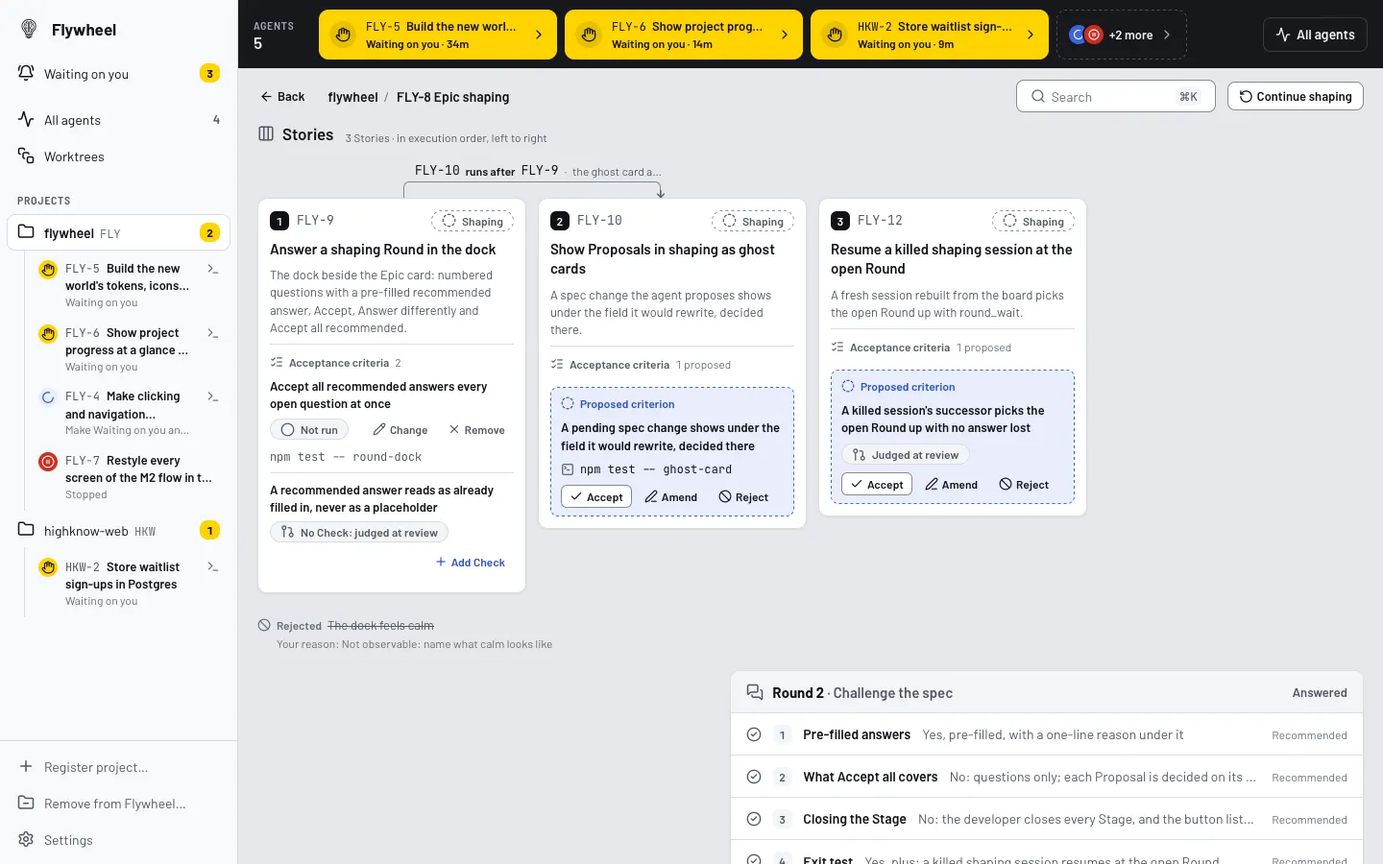
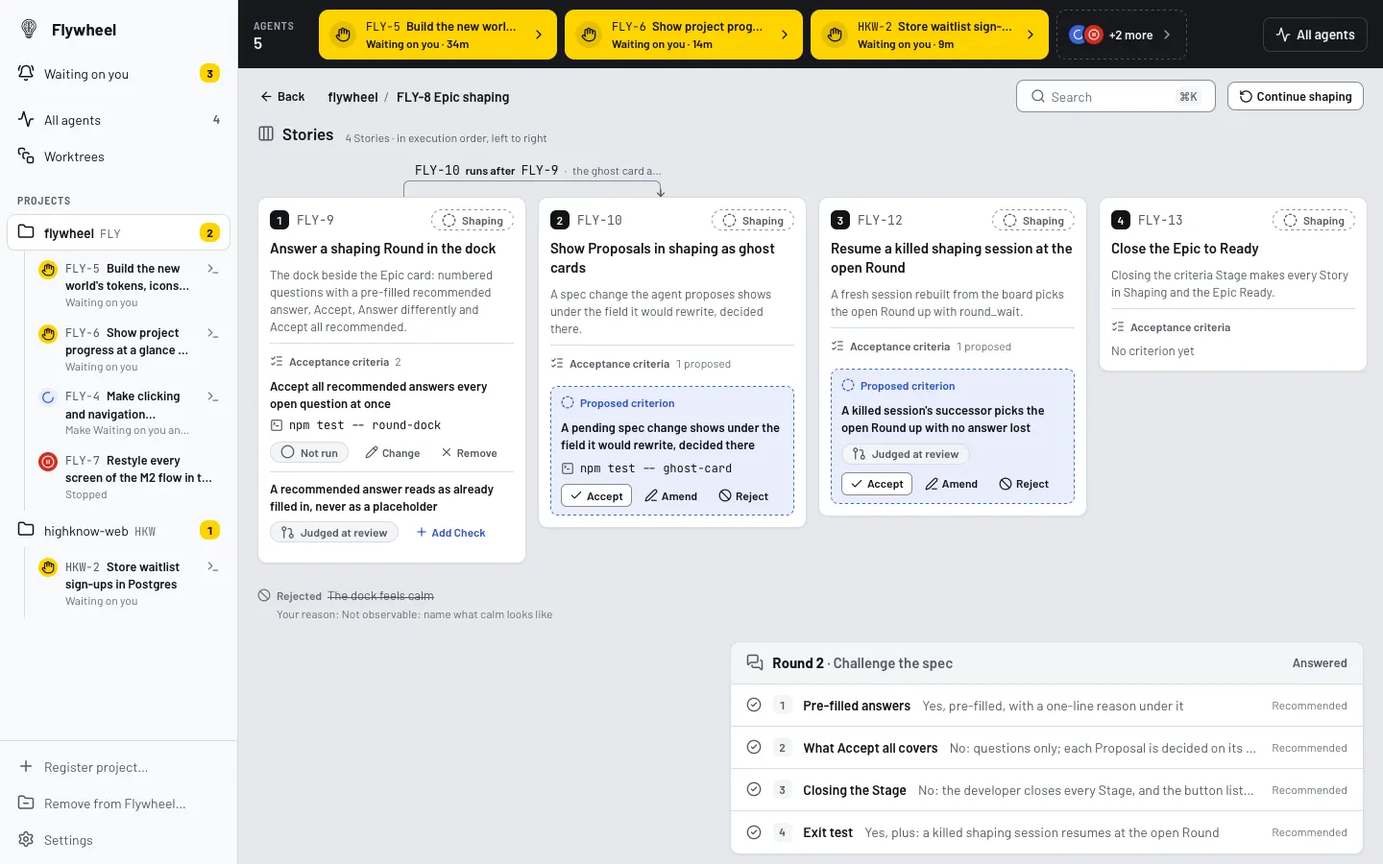
fix: the finish review's findings: a Story with an undecided criterion Proposal is named once, the last Stage's button names the Epic, the closed line stays true, a compact criterion reads command then chip then its controls, the dock waits for no Round once shaping is done, and screen 68 shows the 

diff --git a/packages/desktop/src/test/critique/m2-flow.critique.browser.test.tsx b/packages/desktop/src/test/critique/m2-flow.critique.browser.test.tsx
@@ -184,8 +184,8 @@ function slicingShaping() {
 /**
  * Issue #128: FLY-8 in its last Stage, Write the Acceptance criteria, with Challenge and Slice closed. FLY-9 has two
  * criteria (one with a Check, one judged at review); FLY-10 and FLY-12 have none yet, each with a pending criterion
- * Proposal under it, and a rejected one sits under the columns. `closable` gives every Story its criteria and
- * leaves nothing pending, so closing the Stage would make the Epic and its Stories Ready.
+ * Proposal under it, FLY-13 has neither, and a rejected one sits under the columns. `closable` gives every Story its
+ * criteria and leaves nothing pending, so closing the Stage makes the Epic and its Stories Ready.
  */
 function criteriaShaping({ closable = false } = {}) {
   closableShaping({ closed: true });
@@ -197,7 +197,10 @@ function criteriaShaping({ closable = false } = {}) {
     story("s-9", "FLY-9", "Answer a shaping Round in the dock", "a0", "The dock beside the Epic card: numbered questions with a pre-filled recommended answer, Accept, Answer differently and Accept all recommended."),
     story("s-10", "FLY-10", "Show Proposals in shaping as ghost cards", "a1", "A spec change the agent proposes shows under the field it would rewrite, decided there.", ["s-9", "the ghost card answers from the dock's Round"]),
     story("s-12", "FLY-12", "Resume a killed shaping session at the open Round", "a2", "A fresh session rebuilt from the board picks the open Round up with round_wait."),
+    story("s-13", "FLY-13", "Close the Epic to Ready", "a3", "Closing the criteria Stage makes every Story in Shaping and the Epic Ready."),
   ];
+  // Once the close lands (screen 68), every Stage is closed and the Epic and its Stories are Ready.
+  let closedNow = false;
   const check = (id: string, command: string) => ({ id, command, timeoutSecs: 600, result: "not_run", commitSha: null, stale: false, outputTail: null });
   const criterion = (id: string, storyId: string, statement: string, command: string | null, rank: string) => ({
     id, storyId, statement, accepted: false, acceptedAt: null, rank, check: command ? check(`k-${id}`, command) : null,
@@ -209,6 +212,7 @@ function criteriaShaping({ closable = false } = {}) {
     ],
     "s-10": closable ? [criterion("c-10a", "s-10", "A pending spec change shows under the field it would rewrite", "npm test -- ghost-card", "a")] : [],
     "s-12": closable ? [criterion("c-12a", "s-12", "A killed session's successor picks the open Round up with no answer lost", "cargo test -p core --test shaping_resume", "a")] : [],
+    "s-13": closable ? [criterion("c-13a", "s-13", "Closing the criteria Stage makes the Epic and its Stories Ready at once", "cargo test -p core --test stage_close", "a")] : [],
   };
   const proposal = (id: string, storyId: string, statement: string, command: string | null, extra: Record<string, unknown> = {}) => ({
     id, projectId: "p-fly", sessionId: "ses-shape-8", epicId: "e-59", verb: "create", targetType: "criterion", targetId: null,
@@ -228,20 +232,25 @@ function criteriaShaping({ closable = false } = {}) {
     : [
         { kind: "proposal", id: "pc-10", label: "", round: null, number: null, title: "add the criterion “A pending spec change shows under the field it would rewrite, decided there” to FLY-10" },
         { kind: "proposal", id: "pc-12", label: "", round: null, number: null, title: "add the criterion “A killed session's successor picks the open Round up with no answer lost” to FLY-12" },
-        { kind: "story_without_criterion", id: "s-10", label: "", round: null, number: null, title: "Show Proposals in shaping as ghost cards", storyKey: "FLY-10" },
-        { kind: "story_without_criterion", id: "s-12", label: "", round: null, number: null, title: "Resume a killed shaping session at the open Round", storyKey: "FLY-12" },
+        // FLY-10 and FLY-12 are named through their Proposals; FLY-13 has neither a criterion nor a Proposal.
+        { kind: "story_without_criterion", id: "s-13", label: "", round: null, number: null, title: "Close the Epic to Ready", storyKey: "FLY-13" },
       ];
   mockIPC(
     (cmd, payload) => {
+      if (cmd === "stage_close") {
+        closedNow = true;
+        return { closedStageId: "st-3", opened: null, madeReady: stories.map((s) => s.id), session: null, launchError: null, sidecarWarning: null };
+      }
       if (cmd === "epic_shaping_rounds") {
         const base = answer(cmd, payload as Record<string, unknown> | undefined) as EpicShapingDto | null;
         if (!base) return base;
         return {
           ...base,
+          ...(closedNow ? { epic: { ...base.epic, state: "ready" } } : {}),
           stages: [
             { ...base.stages[0], state: "closed" },
             { id: "st-2", kind: "slice", state: "closed", rank: 2 },
-            { id: "st-3", kind: "criteria", state: "open", rank: 3 },
+            { id: "st-3", kind: "criteria", state: closedNow ? "closed" : "open", rank: 3 },
           ],
           rounds: base.rounds.map((r) => ({
             ...r,
@@ -251,8 +260,10 @@ function criteriaShaping({ closable = false } = {}) {
             questions: r.questions.map((q) => ({ ...q, answer: q.answer ?? q.recommendedAnswer, answeredWith: q.answeredWith ?? "recommended", answeredAt: q.answeredAt ?? r.postedAt })),
           })),
           proposals: [...base.proposals.filter((p) => p.state !== "pending"), ...proposals],
-          stories,
-          openStageStatus: { stageId: "st-3", openItems, warnings: ["The Exit test is not written yet"], next: null, makesReady: true, closable },
+          stories: closedNow ? stories.map((s) => ({ ...s, state: "ready" })) : stories,
+          openStageStatus: closedNow
+            ? null
+            : { stageId: "st-3", openItems, warnings: ["The Exit test is not written yet"], next: null, makesReady: true, closable },
         };
       }
       if (cmd === "criterion_list") return criteria[(payload as { storyId: string }).storyId] ?? [];
@@ -951,6 +962,17 @@ describe.runIf(Boolean(SCHEME))("M2 flow screens", () => {
     await click("Close Stage");
     await screen.findByRole("alertdialog");
     await shot("66-epic-shaping-criteria-close-confirm");
+  });
+
+  it("68 Epic shaping: the last Stage closed, the Epic and its Stories Ready (issue #128)", async () => {
+    criteriaShaping({ closable: true });
+    await boardReady();
+    await click("Open FLY-8 Epic shaping and its Rounds");
+    await click("Close Stage");
+    await click("Close and make the Epic Ready");
+    await screen.findByText("Every Stage is closed: shaping is done.");
+    await screen.findByText(/the Epic and its 4 Stories are Ready/);
+    await shot("68-epic-shaping-criteria-closed");
   });
 
   it("67 Epic shaping at the window's minimum width: criteria under the Story columns (issue #128)", async () => {

diff --git a/packages/desktop/src/board/CriteriaList.tsx b/packages/desktop/src/board/CriteriaList.tsx
@@ -10,7 +10,7 @@
  */
 import { useState, type FormEvent } from "react";
 import { useQuery, useQueryClient } from "@tanstack/react-query";
-import { Pencil, Plus, X } from "lucide-react";
+import { Pencil, Plus, SquareTerminal, X } from "lucide-react";
 import { checkRemove, checkSet, criterionList, type AcceptanceCriterionDto, type CheckDto } from "../adapters/tauri";
 import { StateBadge } from "../components/StateBadge";
 import { Button } from "@/components/ui/button";
@@ -150,21 +150,29 @@ function CriterionRow({
           {check ? (
             <>
               <CheckChip check={check} />
-              <code
-                title={check.command}
-                className={cn(
-                  "min-w-0 truncate font-mono text-muted-foreground",
-                  // In a narrow column the command takes its own line under the chip and the controls.
-                  compact ? "order-last basis-full text-meta" : "text-small",
-                )}
-              >
-                {check.command}
-              </code>
+              {compact ? (
+                // In a narrow column the command takes its own line first, as a proposed criterion's does, and the
+                // chip is followed by the controls that act on it.
+                <span className="order-first flex min-w-0 basis-full items-center gap-1.5 text-meta text-muted-foreground">
+                  <SquareTerminal aria-hidden="true" className="size-3.5 shrink-0" />
+                  <code title={check.command} className="min-w-0 truncate font-mono text-foreground">
+                    {check.command}
+                  </code>
+                </span>
+              ) : (
+                <code title={check.command} className="min-w-0 truncate font-mono text-small text-muted-foreground">
+                  {check.command}
+                </code>
+              )}
             </>
           ) : (
-            <StateBadge state="judged_at_review" label="No Check: judged at review" className="h-5.5 text-meta" />
+            <StateBadge
+              state="judged_at_review"
+              label={compact ? "Judged at review" : "No Check: judged at review"}
+              className="h-5.5 text-meta"
+            />
           )}
-          <span className="ml-auto flex gap-0.5">
+          <span className={cn("flex gap-0.5", !compact && "ml-auto")}>
             <Button
               variant="ghost"
               size="xs"

diff --git a/packages/desktop/src/shaping/__tests__/stage-bar.test.tsx b/packages/desktop/src/shaping/__tests__/stage-bar.test.tsx
@@ -265,7 +265,7 @@ describe("the Stage bar (issue #126)", () => {
     fireEvent.click(within(region).getByRole("button", { name: "Close Stage" }));
     const dialog = await screen.findByRole("alertdialog", { name: "Close Write the Acceptance criteria?" });
     expect(within(dialog).getByText(/Flywheel moves the Epic and each of its Stories still in Shaping to Ready/)).toBeTruthy();
-    fireEvent.click(within(dialog).getByRole("button", { name: "Close and make them Ready" }));
+    fireEvent.click(within(dialog).getByRole("button", { name: "Close and make the Epic Ready" }));
     await waitFor(() => expect(stageClose).toHaveBeenCalledWith("s3"));
     expect(await screen.findByText("Write the Acceptance criteria is closed: the Epic and its 2 Stories are Ready.")).toBeTruthy();
     await waitFor(() =>
@@ -276,6 +276,10 @@ describe("the Stage bar (issue #126)", () => {
       ]),
     );
     expect(screen.queryByText(/session did not start/)).toBeNull();
+    expect(screen.getByText("Every Stage is closed: shaping is done.")).toBeTruthy();
+    expect(screen.queryByRole("button", { name: "Close Stage" })).toBeNull();
+    // No Round is to come: the dock waits for none.
+    expect(screen.queryByRole("heading", { name: /^No Round yet/ })).toBeNull();
   });
 
   it("is not drawn before shaping has opened a Stage", async () => {

diff --git a/packages/desktop/src/shaping/RoundDock.tsx b/packages/desktop/src/shaping/RoundDock.tsx
@@ -63,6 +63,8 @@ export interface RoundDockProps {
   queryKey: readonly unknown[];
   /** Which Rounds to draw: the current one, the earlier ones, or all of them (default). */
   show?: "current" | "earlier" | "all";
+  /** Every Stage of the record is closed (issue #128): shaping is done, and the dock waits for no Round. */
+  done?: boolean;
   className?: string;
 }
 
@@ -82,6 +84,7 @@ export function RoundDock({
   subject = "Epic",
   queryKey,
   show = "all",
+  done = false,
   className,
 }: RoundDockProps) {
   const queryClient = useQueryClient();
@@ -116,6 +119,8 @@ export function RoundDock({
     if (earlier.length === 0) return null;
     return <div className={cn("flex min-w-0 flex-col gap-4", className)}>{earlier.map(card)}</div>;
   }
+  // Issue #128: once every Stage is closed no Round is to come, so there is no current Round to wait for.
+  if (done && !current && show === "current") return null;
   const stageName = openStage && earlier.length > 0 ? ` in ${STAGE_LABELS[openStage.kind] ?? openStage.kind}` : "";
   return (
     <div className={cn("flex min-w-0 flex-col gap-4", className)}>

diff --git a/packages/desktop/src/shaping/StageBar.tsx b/packages/desktop/src/shaping/StageBar.tsx
@@ -293,7 +293,7 @@ export function StageBar({
       )}
       {allClosed && (
         <p className="m-0 border-t border-border px-4 py-3 text-small text-muted-foreground">
-          Every Stage is closed: shaping is done{record === "Epic" ? " and the Epic's Stories are Ready to start" : ""}.
+          Every Stage is closed: shaping is done.
         </p>
       )}
       {/* Always mounted, so a notice that lands in it is announced. */}
@@ -326,7 +326,7 @@ export function StageBar({
             <AlertDialogCancel disabled={closing}>Keep it open</AlertDialogCancel>
             <Button disabled={closing} onClick={() => void close()}>
               <StepForward aria-hidden="true" />
-              {closing ? "Closing…" : finishes ? (record === "Epic" ? "Close and make them Ready" : "Close and make it Ready") : `Close and start ${next}`}
+              {closing ? "Closing…" : finishes ? (record === "Epic" ? "Close and make the Epic Ready" : "Close and make it Ready") : `Close and start ${next}`}
             </Button>
           </AlertDialogFooter>
         </AlertDialogContent>

diff --git a/packages/desktop/src/shaping/EpicShapingView.tsx b/packages/desktop/src/shaping/EpicShapingView.tsx
@@ -118,6 +118,7 @@ export function EpicShapingView({ projectId, projectName, epicId, onBack }: Epic
               epic={epic}
               queryKey={queryKey}
               show="current"
+              done={data.stages.length === 3 && data.stages.every((s) => s.state === "closed")}
               className="xl:col-start-2 xl:row-start-2"
             />
             <div className="min-w-0 self-stretch xl:col-start-1 xl:row-start-2">

diff --git a/packages/core/tests/proposal_apply.rs b/packages/core/tests/proposal_apply.rs
@@ -736,13 +736,14 @@ fn criterion_proposals_read_as_what_they_do_in_the_stage_status() {
     propose_criterion(&mut f, &parser.key, "A malformed line is skipped", None).unwrap();
     let stage = open_stage(&f.conn, &ShapingSubject::Epic(f.epic_id.clone())).unwrap().unwrap();
     let labels: Vec<String> = stage_status(&f.conn, &stage.id).unwrap().open_items.iter().map(|i| i.label()).collect();
-    assert_eq!(
-        labels,
-        [
-            format!("A Proposal to add the criterion “A malformed line is skipped” to {} is undecided", parser.key),
-            format!("{} “Parser” has no Acceptance criterion", parser.key),
-        ]
-    );
+    // The Story is named once, through its Proposal: two items for one decision would read as two blockers.
+    assert_eq!(labels, [format!("A Proposal to add the criterion “A malformed line is skipped” to {} is undecided", parser.key)]);
+
+    // Rejected, the Proposal leaves the Story with no criterion, and the Story is listed again.
+    let pending = proposals_on_epic(&f.conn, &f.epic_id).unwrap().into_iter().find(|p| p.target_type == "criterion").unwrap();
+    reject_proposal(&mut f.conn, &f.human, &pending.id, None).unwrap();
+    let labels: Vec<String> = stage_status(&f.conn, &stage.id).unwrap().open_items.iter().map(|i| i.label()).collect();
+    assert_eq!(labels, [format!("{} “Parser” has no Acceptance criterion", parser.key)]);
 }
 
 #[test]

diff --git a/packages/core/src/domain/stage.rs b/packages/core/src/domain/stage.rs
@@ -352,7 +352,16 @@ pub fn stage_status(conn: &Connection, stage_id: &str) -> anyhow::Result<StageSt
             if open.is_empty() {
                 open_items.push(OpenItem::NoStory);
             }
-            for s in open.into_iter().filter(|s| s.state == "shaping") {
+            // A Story with an undecided criterion Proposal is already listed through that Proposal, which
+            // names it; it comes back here if the Proposal is rejected.
+            let proposed: Vec<String> = conn
+                .prepare("SELECT payload FROM proposals WHERE stage_id = ?1 AND state = 'pending' AND verb = 'create' AND target_type = 'criterion'")?
+                .query_map(params![stage_id], |r| r.get::<_, String>(0))?
+                .filter_map(|p| p.ok())
+                .filter_map(|p| NewCriterion::from_payload(&serde_json::from_str(&p).unwrap_or_default()).ok())
+                .map(|c| c.story_id)
+                .collect();
+            for s in open.into_iter().filter(|s| s.state == "shaping" && !proposed.contains(&s.id)) {
                 if criteria_for_story(conn, &s.id)?.is_empty() {
                     open_items.push(OpenItem::StoryWithoutCriterion { story_id: s.id, key: s.key, title: s.title });
                 }

diff --git a/DESIGN.md b/DESIGN.md
@@ -374,7 +374,7 @@ Confirming an Epic or a Milestone Done is the developer's act, and the click is 
 ### Round Dock
 The Epic's shaping view (`shaping/EpicShapingView.tsx`, #123) is the Stage bar across the top, then the Epic card beside the dock: from 1280px side by side (card 5 parts, dock 7), below that stacked in reading order: the current Round, the Epic card, then the earlier Rounds (a Sheet, as direction.md first planned, would hide the Epic being shaped behind the questions about it). The Epic card is a title card (`layers`, the key in code face, the state pill, the title at title size) over the four spec fields, each a meta-size label with a ghost Edit and its prose at a 68ch measure ("Not written yet" in meta ink); editing opens a textarea in place with Save (outline) and Cancel. The dock (`shaping/RoundDock.tsx`) is one card per Round, newest first. A Round the session is held on wears the request card's frame: the 2px attention edge and the yellow band (`hand`, "Round n", "Waiting on you"); any other Round has the inset band and a 1px edge. Under the note, a bar that stays on screen while the questions scroll carries the region's one filled action, Accept all recommended (`check-check`), the tabular "n of m answered" and a hint. Each open question (`shaping/QuestionCard.tsx`) reads: the ink number chip inline before the question at row size (the title is kept for the folded line, never set above the question as an eyebrow), the grounding line in meta ink behind `file-text`, then the recommended answer already filled in, a running-tint box with a 1px primary edge, "Recommended" in running ink behind a check, the answer semibold and its "Because" line in secondary ink; then Accept (outline) and Answer differently (ghost), which opens a textarea on the recommendation, with the recommendation and its reason kept above it in running ink, Send answer, Cancel and a ⌘↩ hint. A Round outlives its session (#124): an open Round no live session is held on keeps the inset band, never yellow, and the dock still takes every answer; the band reads "No live session: your answers are kept" with Continue shaping (outline) at its end, or, while a fresh session reads the Rounds before its `round_wait` takes this one over, "The agent is reading your answers and picks this Round up". The shaping view's header then carries no control of its own: the band does, and its Epic card's pill names the same attention as the board's. On the board the Epic card's state pill reads Waiting on you (attention) while a live session is held on a Round, and Shaping Round waiting (neutral, `circle-dashed`) while a Round is open with no live session. An answered question folds to one 44px line: a check, a quiet number chip, the title, the answer in secondary ink, whose answer it was ("Recommended" or "Your answer") in meta ink, and Change (ghost) while the Round is open.
 
-The Stage bar (`shaping/StageBar.tsx`, #126) is one card across both columns. Its top line holds the Epic's three Stages in order, joined by short control-edge rules and kept whole on one line (at narrow widths Close Stage drops to its own line rather than a name truncating): a closed Stage behind `circle-check` in secondary ink, the open one as a neutral chip (inset ground, 1px edge, `circle-dot`, semibold ink), one not started behind `circle` in meta ink; then, at the right, Close Stage (`step-forward`). Under a rule, what keeps the Stage open: "Challenge the spec stays open while 3 questions and 2 Proposals are still open:", then the open Round's unanswered questions on one line (`message-circle-question-mark`, "Round 2: 3 questions unanswered" semibold, their titles in secondary ink) and each undecided Proposal on its own (`circle-dashed`, "Proposal undecided · Change the Scope"). While that list has anything in it, Close Stage is an outline at half strength and `aria-disabled` (still in the tab order, so the keyboard reaches it and hears the list, which is its description); once it is empty, the line says nothing is open and what closing starts, and Close Stage becomes the region's one filled primary: the next action. An empty Problem, Scope or Exit test follows in meta ink behind `info`, "Not blocking: …", never yellow. Close Stage confirms in an AlertDialog ("Close Challenge the spec?", Keep it open, then the filled "Close and start Slice into Stories"), because a closed Stage stays closed. A session that could not start is said in the bar's always-mounted status line, with Shape as the way on, and cleared once a session is live. The Epic's last Stage, Write the Acceptance criteria (#128), also lists each Story still in Shaping with no criterion on its own line (`list-checks`, the key in code face, the title semibold, "· no criterion yet" in secondary ink), and the lead sentence counts them ("… while 1 Proposal is still open and 2 Stories have no criterion:"); an Epic with no Story left says "… while the Epic has no Story to make Ready." Once nothing is open its line reads "Nothing in Write the Acceptance criteria is open. It is the Epic's last Stage: closing it settles its answers and makes the Epic and its Stories Ready, each with its criteria and Checks", Close Stage is filled, and the dialog's filled action is "Close and make them Ready". The close starts no session; the status line says "Write the Acceptance criteria is closed: the Epic and its 3 Stories are Ready.", and with every Stage closed the bar keeps one secondary line under its steps: "Every Stage is closed: shaping is done and the Epic's Stories are Ready to start." Each Stage numbers its Rounds from 1, so once a Stage closes its Rounds move below the current one, named with their Stage in secondary ink beside the number ("Round 1 · Challenge the spec"), and the dock waits for the new Stage's first Round ("No Round yet in Slice into Stories", naming Continue shaping when no session works the Stage).
+The Stage bar (`shaping/StageBar.tsx`, #126) is one card across both columns. Its top line holds the Epic's three Stages in order, joined by short control-edge rules and kept whole on one line (at narrow widths Close Stage drops to its own line rather than a name truncating): a closed Stage behind `circle-check` in secondary ink, the open one as a neutral chip (inset ground, 1px edge, `circle-dot`, semibold ink), one not started behind `circle` in meta ink; then, at the right, Close Stage (`step-forward`). Under a rule, what keeps the Stage open: "Challenge the spec stays open while 3 questions and 2 Proposals are still open:", then the open Round's unanswered questions on one line (`message-circle-question-mark`, "Round 2: 3 questions unanswered" semibold, their titles in secondary ink) and each undecided Proposal on its own (`circle-dashed`, "Proposal undecided · Change the Scope"). While that list has anything in it, Close Stage is an outline at half strength and `aria-disabled` (still in the tab order, so the keyboard reaches it and hears the list, which is its description); once it is empty, the line says nothing is open and what closing starts, and Close Stage becomes the region's one filled primary: the next action. An empty Problem, Scope or Exit test follows in meta ink behind `info`, "Not blocking: …", never yellow. Close Stage confirms in an AlertDialog ("Close Challenge the spec?", Keep it open, then the filled "Close and start Slice into Stories"), because a closed Stage stays closed. A session that could not start is said in the bar's always-mounted status line, with Shape as the way on, and cleared once a session is live. The Epic's last Stage, Write the Acceptance criteria (#128), also lists each Story still in Shaping with no criterion on its own line (`list-checks`, the key in code face, the title semibold, "· no criterion yet" in secondary ink), and the lead sentence counts them ("… while 2 Proposals are still open and 1 Story has no criterion:"). A Story with an undecided criterion Proposal is named once, through that Proposal ("… to FLY-10"), never again as a Story with no criterion, so one decision never reads as two blockers; a rejection brings it back. An Epic with no Story left says "… while the Epic has no Story to make Ready." Once nothing is open its line reads "Nothing in Write the Acceptance criteria is open. It is the Epic's last Stage: closing it settles its answers and makes the Epic and its Stories Ready, each with its criteria and Checks", Close Stage is filled, and the dialog's filled action is "Close and make the Epic Ready". The close starts no session; the status line says "Write the Acceptance criteria is closed: the Epic and its 3 Stories are Ready.", with every Stage closed the bar keeps one secondary line under its steps, "Every Stage is closed: shaping is done.", and the dock waits for no Round: its "No Round yet" card is gone. Each Stage numbers its Rounds from 1, so once a Stage closes its Rounds move below the current one, named with their Stage in secondary ink beside the number ("Round 1 · Challenge the spec"), and the dock waits for the new Stage's first Round ("No Round yet in Slice into Stories", naming Continue shaping when no session works the Stage).
 
 A spec change an agent proposes (`shaping/GhostCard.tsx`, #125) is a ghost of the field it would rewrite, drawn under that field's text on the Epic card, never in an inbox: a 1px dashed primary edge on the running tint (the recommended answer's solid edge, made provisional), "Proposed Scope" in running ink behind `circle-dashed`, the agent's whole new text at the field's 68ch measure, its "Why:" line in secondary ink, then Accept (outline), Amend (ghost) and Reject (ghost). Amend opens a textarea on the proposed text with Accept edit (outline), Cancel and a ⌘↩ hint: editing and accepting are one act. Reject opens a one-line "Why not? (optional)" field beside Reject (outline) and Cancel. A rejected spec change is decided, so it loses the dashed edge and shrinks to two plain lines with no ground: `ban`, "Rejected" and the text struck through in secondary ink, then "Your reason: …" in meta ink. Reject always wears `ban`; `x` only ever means Cancel. Amend keeps the agent's "Why:" line above the textarea, and Cancel returns the focus to the button that opened the mode; once decided, the focus lands on the field's Edit. No blue fill and no yellow: a pending Proposal never holds the agent, so it is never Waiting on you.
 
@@ -384,7 +384,7 @@ The Epic card's ADR and glossary chips (#129) sit in its title block under the S
 
 A Milestone's shaping view (`shaping/MilestoneShapingView.tsx`, #132) is the Epic's view for its one Stage, Exit test. The Stage bar is the one-step variant: the single Exit test chip, the open list, the Stage named as a Stage throughout ("The Exit test Stage stays open while…", "Close the Exit test Stage?") so it never reads as the exit test itself, and once nothing is open the line "Nothing in the Exit test Stage is open. It is the Milestone's only Stage: closing it settles its answers and makes the Milestone Ready", Close Stage filled, confirmed with "Close and make it Ready"; afterwards the bar's status line says "The Exit test Stage is closed: the Milestone is Ready." The breadcrumb names the Milestone by its title, as its lamp does. The Milestone card replaces the Epic card: `flag`, "Milestone 2 of 5" (its place on the Roadmap, tabular), the state pill (attention in its place while a Round waits, read by the same hook as the board's Milestone header, so the two agree) and "Current" when it is, the title at title size, then the exit test as the one field, prose at a 68ch measure, with no Edit (it is changed only through a Proposal, accepted or amended); an agent's `propose_exit_test` is the ghost under it ("Proposed Exit test"), decided the same way, a rejected one struck through. Under a rule, "Around it on the Roadmap": the Milestone before (`arrow-up`) and after (`arrow-down`) it, each its name semibold, its state in secondary ink and its exit test at small size, because the exit test must be told apart from theirs. Once a ghost is decided the focus lands on the exit test itself. The dock is the same `RoundDock`, with the Milestone's own Continue shaping on the band.
 ### Story Columns
-Slicing an Epic (`shaping/StoryColumns.tsx`, #127) hangs its Stories off the Epic card: under the Epic card and the current Round, across both columns, before the earlier Rounds, shown once the Epic has a Story or a Story Proposal or its Slice Stage has opened. A section heading on the floor (`columns-3`, "Stories" at section size, then "3 Stories · 2 proposed · in execution order, left to right" in meta ink, tabular) heads a row of 17.5rem columns that scrolls sideways when it is wider than the content. While any column is past an edge, an outline button at the heading's end for each such side says so and scrolls that way ("‹ 1 earlier", "2 more · 2 to decide ›"), and on opening the strip scrolls the first pending Proposal into view; the columns sit on the floor, never inside a card, because each is a card of its own. A Story column is a card: the ink order chip (the question card's number chip), the key in code face, the state pill at meta size on the right, the title at row size and the description in secondary ink, cut at six lines with the whole text in the tooltip. A Dropped Story leaves the order. A pending New Story is a ghost column standing where it would land: the ghost field's dashed primary edge on the running tint, a dashed order chip, `circle-dashed` "Proposed Story" in running ink, its title and its whole description in ink, then Accept (outline), Amend (ghost) and Reject (ghost) on one line. Amend opens its title (a field that grows to the whole title, Enter never breaking it), description and, when it runs after another, "Why it runs after …" in place, with Accept edit, Cancel and the ⌘↩ hint; its place and what it runs after are not editable. A pending move or retirement sits at the foot of its Story's column as a dashed plate (`arrow-right-left` "Proposed move" or `circle-slash` "Proposed retirement" in running ink), saying where the Story would land, naming that place as the columns do ("Moves after FLY-12 Feed row", or a pending Story's dashed order chip and its title on one line) or that it would be dropped, the agent's "Why:" line, then Accept (outline) and Reject (ghost). A runs-after constraint is a bracket above the columns, its feet running down to the two columns it links, the arrow just left of the waiting Story's centre and the start just right of the other's, so a Story that waits and is waited on carries two feet. Its label sits over the arrow's end, so it reads as a sentence about the Story under it, on a floor-coloured knockout that the feet of the brackets above pass behind: its two ends named as the columns name them (the key in code face, or a pending Story's dashed order chip), "runs after" semibold, then the one-line reason in secondary ink. A bracket is solid in control-edge grey between two Stories, and dashed primary with running ink when either end is still a Proposal. The longest bracket sits highest, so the short ones stay nearest the columns they join. The constraint never blocks anything; a Story placed before the one it runs after says "yet comes first" and nothing more. From the criteria Stage on (#128), each Story column stacks its Acceptance criteria under its description, before any move or retirement plate, under a rule: a meta-size heading (`list-checks`, "Acceptance criteria" semibold in secondary ink, then the tabular count, "2 · 1 proposed", in meta ink), then the criteria as `board/CriteriaList.tsx` draws them in its compact variant: the statement semibold at small size, the Check's result chip with Change and Remove (ghost, extra-small) on one line and the command in code face at meta size on its own line under them, or the quiet "No Check: judged at review" pill with Add Check; "No criterion yet" in secondary ink while there is none and none proposed. A pending criterion is a dashed plate under them, the move plate's frame: `circle-dashed` "Proposed criterion" in running ink, the statement semibold in ink, then its Check (`square-terminal` and the command in code face, or the "Judged at review" pill), then Accept (outline), Amend and Reject (ghost), all extra-small so the three sit on one line in the column. Amend opens "Criterion" (a textarea) and "Check command (blank: judged at review)" (code face) in place, with Accept edit, Cancel and the ⌘↩ hint; the Story it is on is not editable. Rejected Story and criterion Proposals shrink under the columns to the rejected spec change's two lines: `ban`, "Rejected", the title, "Move FLY-12" or the criterion's statement struck through, then "Your reason: …".
+Slicing an Epic (`shaping/StoryColumns.tsx`, #127) hangs its Stories off the Epic card: under the Epic card and the current Round, across both columns, before the earlier Rounds, shown once the Epic has a Story or a Story Proposal or its Slice Stage has opened. A section heading on the floor (`columns-3`, "Stories" at section size, then "3 Stories · 2 proposed · in execution order, left to right" in meta ink, tabular) heads a row of 17.5rem columns that scrolls sideways when it is wider than the content. While any column is past an edge, an outline button at the heading's end for each such side says so and scrolls that way ("‹ 1 earlier", "2 more · 2 to decide ›"), and on opening the strip scrolls the first pending Proposal into view; the columns sit on the floor, never inside a card, because each is a card of its own. A Story column is a card: the ink order chip (the question card's number chip), the key in code face, the state pill at meta size on the right, the title at row size and the description in secondary ink, cut at six lines with the whole text in the tooltip. A Dropped Story leaves the order. A pending New Story is a ghost column standing where it would land: the ghost field's dashed primary edge on the running tint, a dashed order chip, `circle-dashed` "Proposed Story" in running ink, its title and its whole description in ink, then Accept (outline), Amend (ghost) and Reject (ghost) on one line. Amend opens its title (a field that grows to the whole title, Enter never breaking it), description and, when it runs after another, "Why it runs after …" in place, with Accept edit, Cancel and the ⌘↩ hint; its place and what it runs after are not editable. A pending move or retirement sits at the foot of its Story's column as a dashed plate (`arrow-right-left` "Proposed move" or `circle-slash` "Proposed retirement" in running ink), saying where the Story would land, naming that place as the columns do ("Moves after FLY-12 Feed row", or a pending Story's dashed order chip and its title on one line) or that it would be dropped, the agent's "Why:" line, then Accept (outline) and Reject (ghost). A runs-after constraint is a bracket above the columns, its feet running down to the two columns it links, the arrow just left of the waiting Story's centre and the start just right of the other's, so a Story that waits and is waited on carries two feet. Its label sits over the arrow's end, so it reads as a sentence about the Story under it, on a floor-coloured knockout that the feet of the brackets above pass behind: its two ends named as the columns name them (the key in code face, or a pending Story's dashed order chip), "runs after" semibold, then the one-line reason in secondary ink. A bracket is solid in control-edge grey between two Stories, and dashed primary with running ink when either end is still a Proposal. The longest bracket sits highest, so the short ones stay nearest the columns they join. The constraint never blocks anything; a Story placed before the one it runs after says "yet comes first" and nothing more. From the criteria Stage on (#128), each Story column stacks its Acceptance criteria under its description, before any move or retirement plate, under a rule: a meta-size heading (`list-checks`, "Acceptance criteria" semibold in secondary ink, then the tabular count, "2 · 1 proposed", in meta ink), then the criteria as `board/CriteriaList.tsx` draws them in its compact variant: the statement semibold at small size, then the Check's command on its own line (`square-terminal` and the command in code face at meta size, as a proposed criterion shows it), then its result chip followed by Change and Remove (ghost, extra-small), or the quiet "Judged at review" pill followed by Add Check, the controls kept beside the chip they act on; "No criterion yet" in secondary ink while there is none and none proposed. A pending criterion is a dashed plate under them, the move plate's frame: `circle-dashed` "Proposed criterion" in running ink, the statement semibold in ink, then its Check (`square-terminal` and the command in code face, or the "Judged at review" pill), then Accept (outline), Amend and Reject (ghost), all extra-small so the three sit on one line in the column. Amend opens "Criterion" (a textarea) and "Check command (blank: judged at review)" (code face) in place, with Accept edit, Cancel and the ⌘↩ hint; the Story it is on is not editable. Rejected Story and criterion Proposals shrink under the columns to the rejected spec change's two lines: `ban`, "Rejected", the title, "Move FLY-12" or the criterion's statement struck through, then "Your reason: …".
 
 ### Feed Rows
 A tool call is one line (`session/FeedRow.tsx`, worded by `session/toolVerbs.ts`): the disclosure chevron, the kind's Lucide icon, a plain verb in a 108px semibold column (Read, Edited, Wrote, Ran, Searched; board tools by their meaning: Added Task, Finished Task, Ran Checks, Handed off, Posted Round, and Resumed Round n for `round_wait`, each of the two reading "Waiting on your answers" while it is held), what it acted on (code face for paths and commands, reading face for Task titles), then the metrics column on the right in meta ink, tabular: lines, `+added −removed`, "done" in ink for a clean command or "exit n" for a failed one, Check results, and the duration. A failed command is neutral ink beside `circle-x`; only a failed Check is red. Search targets are quoted, with the place searched ("“Dropped” in GLOSSARY.md"); a tool Flywheel has no verb for reads "Used" and its name in words. A call in flight reads in the progressive ("Running"), the loader leading its clock in running ink. No raw `mcp__` tool name is printed anywhere outside View raw.

diff --git a/docs/design/critique-2026-10.md b/docs/design/critique-2026-10.md
@@ -170,6 +170,7 @@ and "n of m Stories merged" (each Epic appears once). See 01 above and 17 below.
 | 65 | Epic shaping: Amend opens a proposed criterion's statement and Check command under its Story (#128) | ![](critique-2026-10/after/65-epic-shaping-amend-criterion-light.webp) | ![](critique-2026-10/after/65-epic-shaping-amend-criterion-dark.webp) |
 | 66 | Epic shaping: confirming the last Stage's close, which makes the Epic and its Stories Ready (#128) | ![](critique-2026-10/after/66-epic-shaping-criteria-close-confirm-light.webp) | ![](critique-2026-10/after/66-epic-shaping-criteria-close-confirm-dark.webp) |
 | 67 | Epic shaping at the window's minimum width: criteria under the Story columns (#128) | ![](critique-2026-10/after/67-epic-shaping-criteria-min-width-light.webp) | ![](critique-2026-10/after/67-epic-shaping-criteria-min-width-dark.webp) |
+| 68 | Epic shaping: the last Stage closed, the Epic and its Stories Ready, the dock waiting for no Round (#128) | ![](critique-2026-10/after/68-epic-shaping-criteria-closed-light.webp) | ![](critique-2026-10/after/68-epic-shaping-criteria-closed-dark.webp) |
 
 ## How the screens were rendered
 
